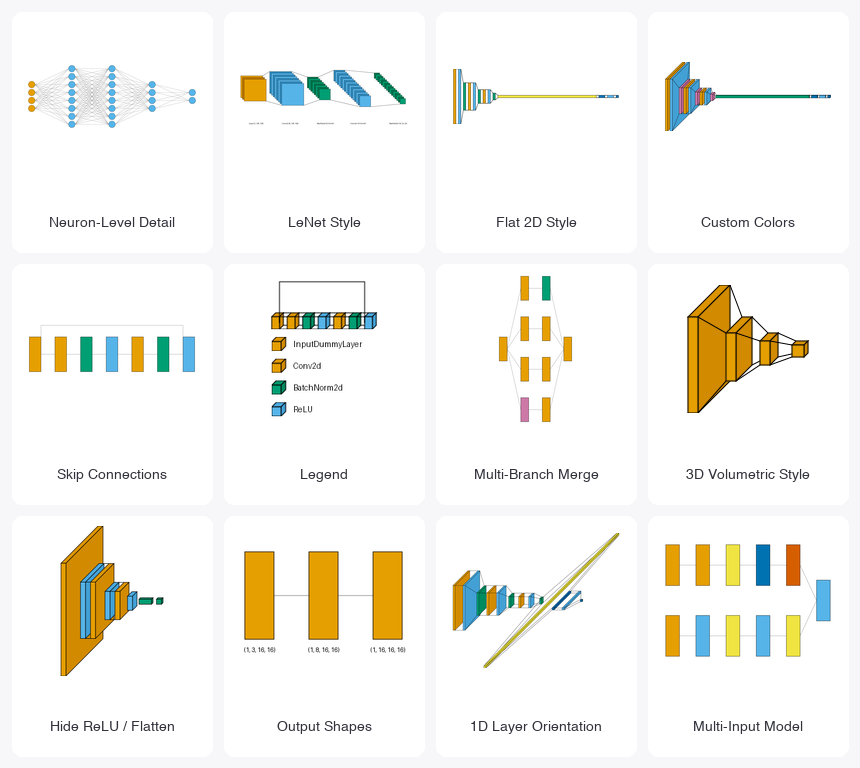
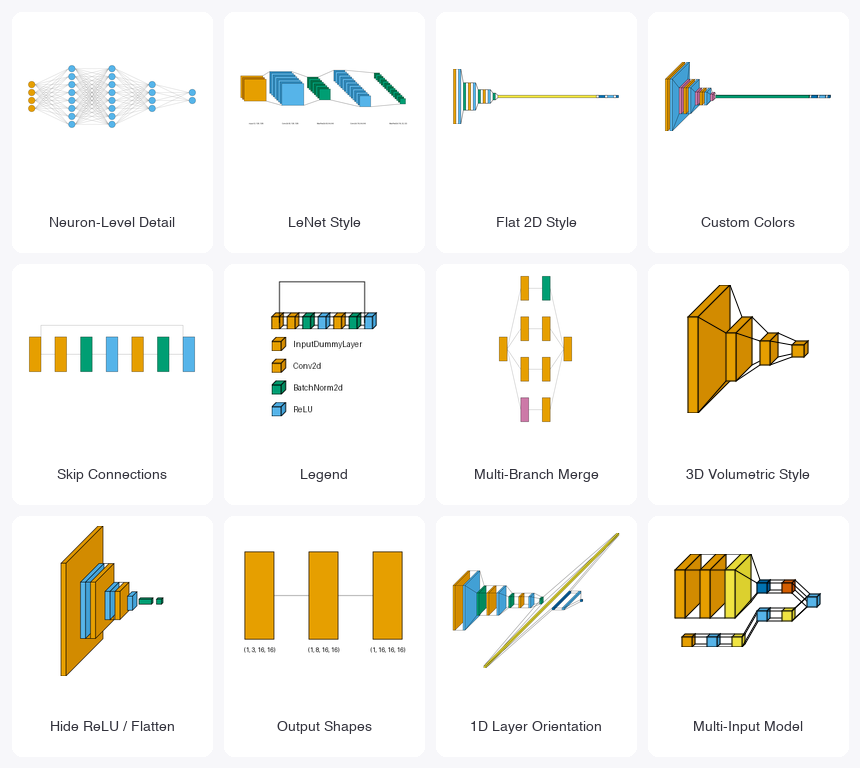
Add flow/lenet multi-input & Inception examples, drop redundant overview page
- Adds flow and lenet_style versions of both the multi-input and
  Inception (multi-branch merge) examples, for parity with the
  residual-block example which already has one per style.
- Swaps the README banner's Multi-Input Model panel to the flow-style
  render, which reads more clearly at thumbnail size.
- Removes docs/examples/overview/plot_compare_styles.py: it duplicated
  the same ResidualBlock model already shown individually in each
  style's own residual-block example, adding no unique teaching value
  beyond a side-by-side comparison that wasn't worth the upkeep of a
  4th copy of the same model.

Changed region(s): [[0.7558, 0.6875, 0.9674, 0.875]]

diff --git a/docs/examples/flow/plot_inception_block_flow.py b/docs/examples/flow/plot_inception_block_flow.py
@@ -1,0 +1,70 @@
+"""Multi-Branch Merge (Inception-style)
+=======================================
+
+The same Inception-style block as the ``graph`` style's multi-branch example - four parallel
+branches (a plain Conv2d+BatchNorm2d, a 1x1-then-3x3 conv, a 1x1-then-5x5 conv, and a
+max-pool-then-1x1-conv) that all read the same input and merge into a shared projection layer -
+rendered in ``flow`` style instead.
+
+Conv2d is orange, BatchNorm2d is green, and MaxPool2d is reddish purple.
+"""  # noqa: D205
+
+from collections import defaultdict
+
+import matplotlib.pyplot as plt
+import torch
+import visualtorch
+from torch import nn
+
+
+class InceptionBlock(nn.Module):
+    """A simplified Inception-style block with four parallel branches."""
+
+    def __init__(self, in_channels: int, out_1x1: int, out_3x3: int, out_5x5: int, out_pool: int) -> None:
+        super().__init__()
+        self.branch1 = nn.Sequential(
+            nn.Conv2d(in_channels, out_1x1, kernel_size=1),
+            nn.BatchNorm2d(out_1x1),
+        )
+        self.branch2 = nn.Sequential(
+            nn.Conv2d(in_channels, out_3x3, kernel_size=1),
+            nn.Conv2d(out_3x3, out_3x3, kernel_size=3, padding=1),
+        )
+        self.branch3 = nn.Sequential(
+            nn.Conv2d(in_channels, out_5x5, kernel_size=1),
+            nn.Conv2d(out_5x5, out_5x5, kernel_size=5, padding=2),
+        )
+        self.branch4 = nn.Sequential(
+            nn.MaxPool2d(kernel_size=3, stride=1, padding=1),
+            nn.Conv2d(in_channels, out_pool, kernel_size=1),
+        )
+        total_channels = out_1x1 + out_3x3 + out_5x5 + out_pool
+        self.project = nn.Conv2d(total_channels, total_channels, kernel_size=1)
+
+    def forward(self, x: torch.Tensor) -> torch.Tensor:
+        """Run every branch on the same input, then concatenate and project."""
+        b1 = self.branch1(x)
+        b2 = self.branch2(x)
+        b3 = self.branch3(x)
+        b4 = self.branch4(x)
+        merged = torch.cat([b1, b2, b3, b4], dim=1)
+        return self.project(merged)
+
+
+model = InceptionBlock(in_channels=16, out_1x1=8, out_3x3=8, out_5x5=8, out_pool=8)
+
+input_shape = (1, 16, 16, 16)
+
+color_map: dict = defaultdict(dict)
+color_map[nn.Conv2d]["fill"] = "#E69F00"
+color_map[nn.BatchNorm2d]["fill"] = "#009E73"
+color_map[nn.MaxPool2d]["fill"] = "#CC79A7"
+
+img = visualtorch.render(model, input_shape, style="flow", color_map=color_map, scale_xy=3, spacing=15)
+
+dpi = 150  # rendered at 2x this in the final doc build (savefig.dpi=300 in conf.py)
+plt.figure(figsize=(img.width / dpi, img.height / dpi), dpi=dpi)
+plt.imshow(img)
+plt.axis("off")
+plt.tight_layout()
+plt.show()

diff --git a/docs/examples/lenet_style/plot_inception_block_lenet_style.py b/docs/examples/lenet_style/plot_inception_block_lenet_style.py
@@ -1,0 +1,70 @@
+"""Multi-Branch Merge (Inception-style)
+=======================================
+
+The same Inception-style block as the ``graph`` style's multi-branch example - four parallel
+branches (a plain Conv2d+BatchNorm2d, a 1x1-then-3x3 conv, a 1x1-then-5x5 conv, and a
+max-pool-then-1x1-conv) that all read the same input and merge into a shared projection layer -
+rendered in ``lenet`` style instead.
+
+Conv2d is orange, BatchNorm2d is green, and MaxPool2d is reddish purple.
+"""  # noqa: D205
+
+from collections import defaultdict
+
+import matplotlib.pyplot as plt
+import torch
+import visualtorch
+from torch import nn
+
+
+class InceptionBlock(nn.Module):
+    """A simplified Inception-style block with four parallel branches."""
+
+    def __init__(self, in_channels: int, out_1x1: int, out_3x3: int, out_5x5: int, out_pool: int) -> None:
+        super().__init__()
+        self.branch1 = nn.Sequential(
+            nn.Conv2d(in_channels, out_1x1, kernel_size=1),
+            nn.BatchNorm2d(out_1x1),
+        )
+        self.branch2 = nn.Sequential(
+            nn.Conv2d(in_channels, out_3x3, kernel_size=1),
+            nn.Conv2d(out_3x3, out_3x3, kernel_size=3, padding=1),
+        )
+        self.branch3 = nn.Sequential(
+            nn.Conv2d(in_channels, out_5x5, kernel_size=1),
+            nn.Conv2d(out_5x5, out_5x5, kernel_size=5, padding=2),
+        )
+        self.branch4 = nn.Sequential(
+            nn.MaxPool2d(kernel_size=3, stride=1, padding=1),
+            nn.Conv2d(in_channels, out_pool, kernel_size=1),
+        )
+        total_channels = out_1x1 + out_3x3 + out_5x5 + out_pool
+        self.project = nn.Conv2d(total_channels, total_channels, kernel_size=1)
+
+    def forward(self, x: torch.Tensor) -> torch.Tensor:
+        """Run every branch on the same input, then concatenate and project."""
+        b1 = self.branch1(x)
+        b2 = self.branch2(x)
+        b3 = self.branch3(x)
+        b4 = self.branch4(x)
+        merged = torch.cat([b1, b2, b3, b4], dim=1)
+        return self.project(merged)
+
+
+model = InceptionBlock(in_channels=16, out_1x1=8, out_3x3=8, out_5x5=8, out_pool=8)
+
+input_shape = (1, 16, 16, 16)
+
+color_map: dict = defaultdict(dict)
+color_map[nn.Conv2d]["fill"] = "#E69F00"
+color_map[nn.BatchNorm2d]["fill"] = "#009E73"
+color_map[nn.MaxPool2d]["fill"] = "#CC79A7"
+
+img = visualtorch.render(model, input_shape, style="lenet", color_map=color_map, scale_xy=1.5)
+
+dpi = 150  # rendered at 2x this in the final doc build (savefig.dpi=300 in conf.py)
+plt.figure(figsize=(img.width / dpi, img.height / dpi), dpi=dpi)
+plt.imshow(img)
+plt.axis("off")
+plt.tight_layout()
+plt.show()

diff --git a/docs/examples/flow/plot_multi_input_flow.py b/docs/examples/flow/plot_multi_input_flow.py
@@ -1,0 +1,66 @@
+"""Multi-Input Model (Siamese-style)
+=======================================
+
+The same two-branch model as the ``graph`` style's multi-input example - an image branch
+(Conv2d + global pooling) and a tabular-vector branch (a small MLP), merged by concatenation
+before a shared head - rendered in ``flow`` style instead.
+
+Pass a tuple of per-tensor shapes as ``input_shape`` instead of a single flat shape - one shape
+per positional argument of ``forward()``, in order. Each input gets its own labeled box
+(``input_0``, ``input_1``, ...) at the start of the diagram.
+
+Conv2d is orange and Linear is sky blue.
+"""  # noqa: D205
+
+from collections import defaultdict
+
+import matplotlib.pyplot as plt
+import torch
+import visualtorch
+from torch import nn
+
+
+class SiameseNet(nn.Module):
+    """A two-branch model: an image branch and a tabular-vector branch, merged by concatenation."""
+
+    def __init__(self) -> None:
+        super().__init__()
+        self.image_branch = nn.Sequential(
+            nn.Conv2d(3, 8, kernel_size=3, stride=1, padding=1),
+            nn.ReLU(),
+            nn.AdaptiveAvgPool2d(1),
+            nn.Flatten(),
+        )
+        self.vector_branch = nn.Sequential(
+            nn.Linear(10, 8),
+            nn.ReLU(),
+            nn.Linear(8, 8),
+            nn.ReLU(),
+        )
+        self.head = nn.Linear(16, 4)
+
+    def forward(self, image: torch.Tensor, vector: torch.Tensor) -> torch.Tensor:
+        """Run each branch on its own input tensor, then concatenate and project."""
+        image_features = self.image_branch(image)
+        vector_features = self.vector_branch(vector)
+        merged = torch.cat([image_features, vector_features], dim=1)
+        return self.head(merged)
+
+
+model = SiameseNet()
+
+# One shape per forward() argument: (image, vector).
+input_shape = ((1, 3, 16, 16), (1, 10))
+
+color_map: dict = defaultdict(dict)
+color_map[nn.Conv2d]["fill"] = "#E69F00"
+color_map[nn.Linear]["fill"] = "#56B4E9"
+
+img = visualtorch.render(model, input_shape, style="flow", color_map=color_map, scale_xy=3, spacing=15)
+
+dpi = 150  # rendered at 2x this in the final doc build (savefig.dpi=300 in conf.py)
+plt.figure(figsize=(img.width / dpi, img.height / dpi), dpi=dpi)
+plt.imshow(img)
+plt.axis("off")
+plt.tight_layout()
+plt.show()

diff --git a/docs/source/conf.py b/docs/source/conf.py
@@ -102,7 +102,7 @@ sphinx_gallery_conf = {
     "gallery_dirs": "usage_examples",  # path to where to save gallery generated output
     "min_reported_time": 10,
     "subsection_order": ExplicitOrder(
-        ["../examples/overview", "../examples/flow", "../examples/graph", "../examples/lenet_style"],
+        ["../examples/flow", "../examples/graph", "../examples/lenet_style"],
     ),
     "within_subsection_order": ExampleTitleSortKey,
 }

diff --git a/docs/source/index.md b/docs/source/index.md
@@ -75,7 +75,6 @@ markdown/get_started/installation
 :caption: Usage Examples
 :hidden:
 
-usage_examples/overview/index
 usage_examples/flow/index
 usage_examples/graph/index
 usage_examples/lenet_style/index